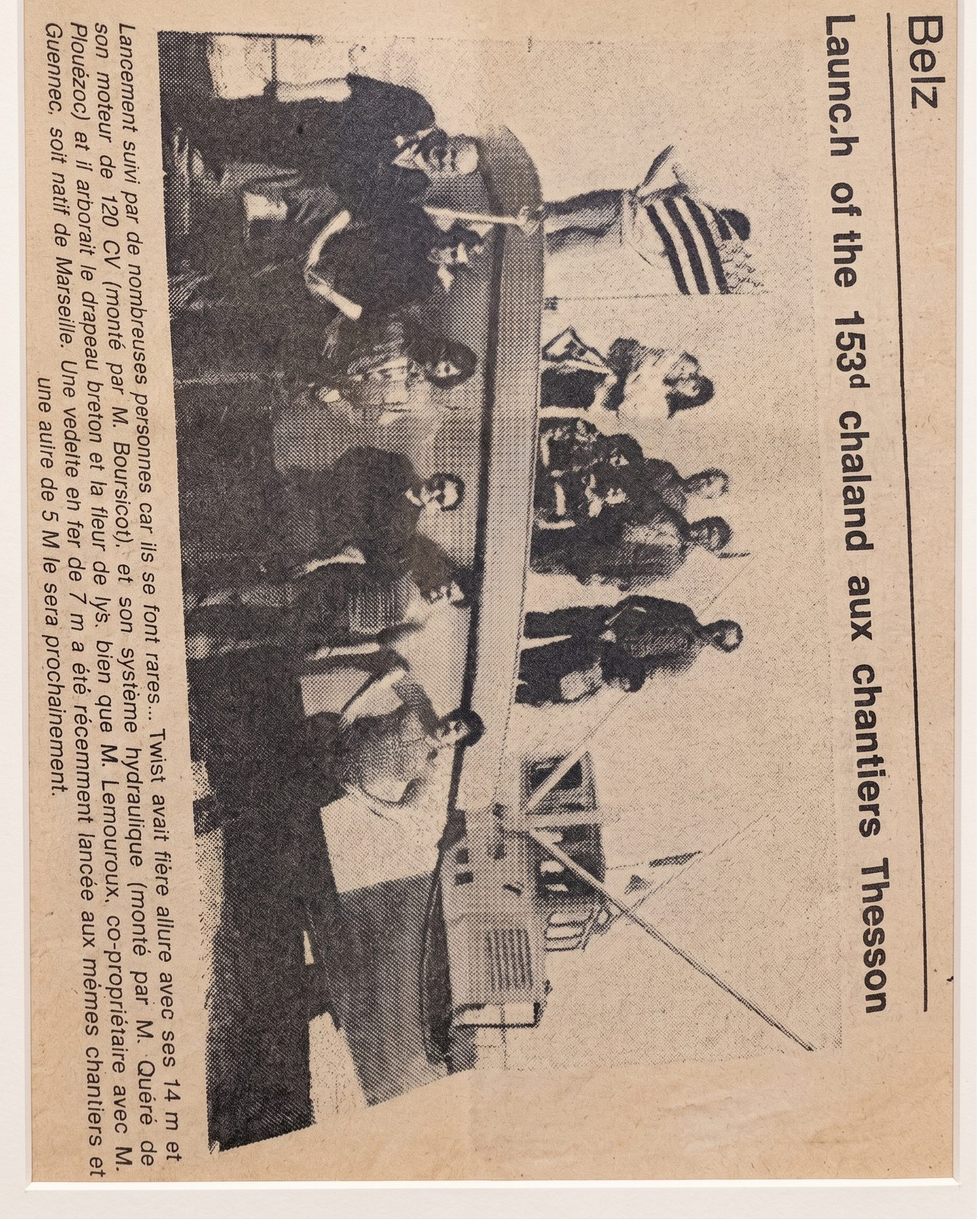
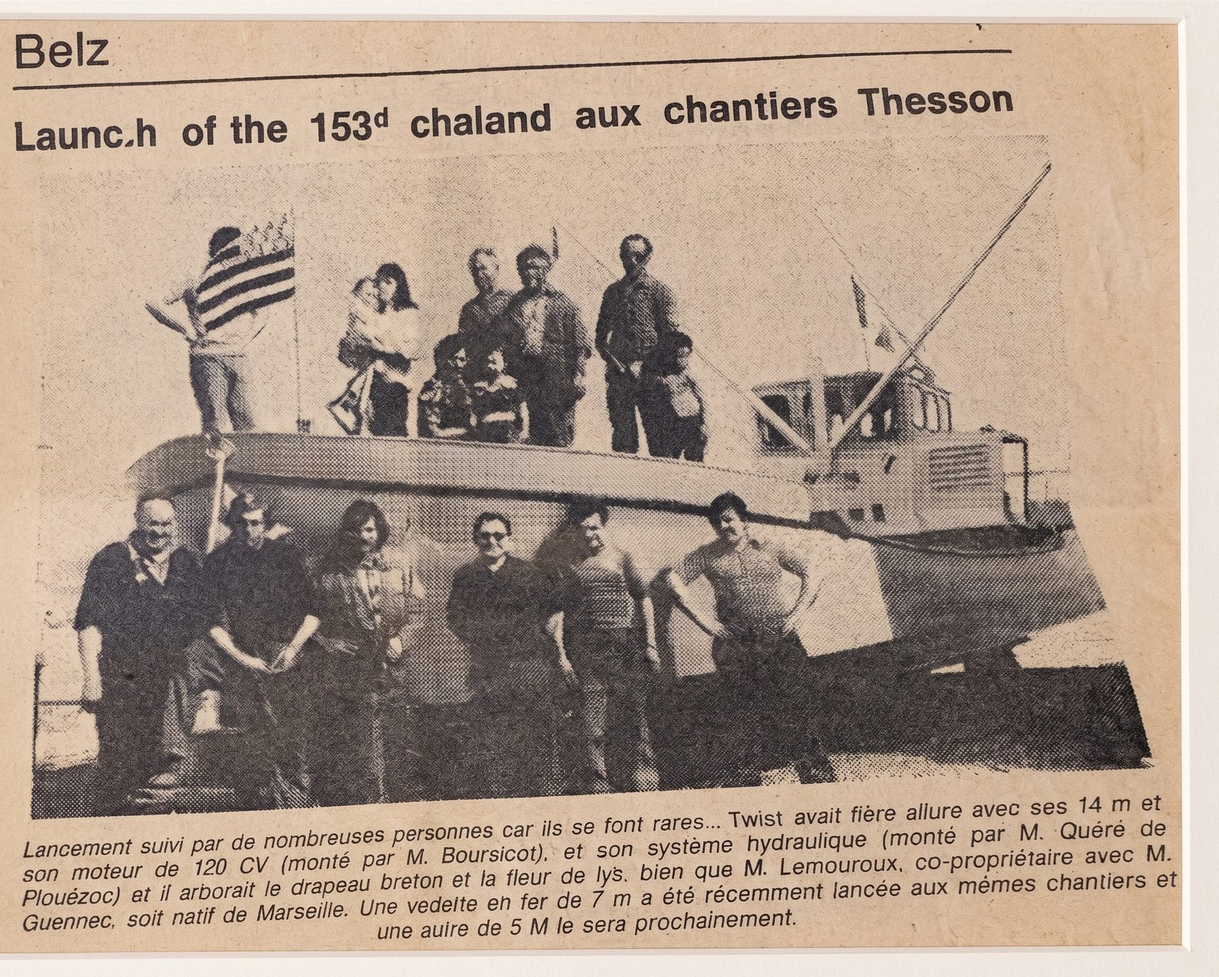
Corrige l'orientation de la coupure de presse, ajoute la photo Myriane
- archive-01-article-chaland.jpg pivote a la source (donc vignette et
  lightbox corrigees automatiquement, meme fichier pour les deux).
  Rotation reellement appliquee : 90 anti-horaire, verifiee visuellement
  jusqu'a obtenir un texte parfaitement horizontal et lisible (une
  rotation horaire produisait une image a l'envers).
- Nouvelle carte "Myriane au tapis, preparation artisanale" ajoutee
  juste apres la coupure de presse, photo trouvee dans
  photo/archives/myriane au tapis.png (ajoutee au dossier source
  depuis le dernier import).

diff --git a/histoire.html b/histoire.html
@@ -15,7 +15,7 @@
 <link rel="preconnect" href="https://fonts.googleapis.com">
 <link rel="preconnect" href="https://fonts.gstatic.com" crossorigin>
 <link href="https://fonts.googleapis.com/css2?family=Playfair+Display:wght@500;600;700&family=Dancing+Script:wght@600;700&family=Inter:wght@400;500;600;700&display=swap" rel="stylesheet">
-<link rel="stylesheet" href="css/style.css?v=115">
+<link rel="stylesheet" href="css/style.css?v=116">
 <script>document.documentElement.classList.add("js");</script>
 </head>
 <body>
@@ -260,6 +260,10 @@
           <figcaption>Coupure de presse — le lancement du chaland « Twist », aux chantiers Thesson (Août 1964)</figcaption>
         </figure>
         <figure class="archive-card" role="button" tabindex="0">
+          <img src="img/archives/archive-16-myriane-tapis.jpg" alt="Myriane au tapis de tri, préparation artisanale des coquillages" loading="lazy">
+          <figcaption>Myriane au tapis, préparation artisanale</figcaption>
+        </figure>
+        <figure class="archive-card" role="button" tabindex="0">
           <img src="img/archives/archive-02-twist-en-mer.jpg" alt="Le chaland Twist Auray en mer, pavillon breton au vent" loading="lazy">
           <figcaption>Le « Twist Auray » en mer, pavillon breton au vent</figcaption>
         </figure>
@@ -384,6 +388,6 @@
   <svg viewBox="0 0 24 24" fill="none" stroke="currentColor" stroke-width="2.2" stroke-linecap="round" stroke-linejoin="round"><path d="M12 19V5"/><path d="m5 12 7-7 7 7"/></svg>
 </button>
 
-<script src="js/main.js?v=115"></script>
+<script src="js/main.js?v=116"></script>
 </body>
 </html>

diff --git a/index.html b/index.html
@@ -16,7 +16,7 @@
 <link rel="preconnect" href="https://fonts.gstatic.com" crossorigin>
 <link href="https://fonts.googleapis.com/css2?family=Playfair+Display:wght@500;600;700&family=Dancing+Script:wght@600;700&family=Inter:wght@400;500;600;700&display=swap" rel="stylesheet">
 <link rel="stylesheet" href="https://unpkg.com/leaflet@1.9.4/dist/leaflet.css" integrity="sha256-p4NxAoJBhIIN+hmNHrzRCf9tD/miZyoHS5obTRR9BMY=" crossorigin="">
-<link rel="stylesheet" href="css/style.css?v=115">
+<link rel="stylesheet" href="css/style.css?v=116">
 <script>document.documentElement.classList.add("js");</script>
 </head>
 <body>
@@ -513,6 +513,6 @@
 </button>
 
 <script src="https://unpkg.com/leaflet@1.9.4/dist/leaflet.js" integrity="sha256-20nQCchB9co0qIjJZRGuk2/Z9VM+kNiyxNV1lvTlZBo=" crossorigin=""></script>
-<script src="js/main.js?v=115"></script>
+<script src="js/main.js?v=116"></script>
 </body>
 </html>

diff --git a/points-de-vente.html b/points-de-vente.html
@@ -16,7 +16,7 @@
 <link rel="preconnect" href="https://fonts.gstatic.com" crossorigin>
 <link href="https://fonts.googleapis.com/css2?family=Playfair+Display:wght@500;600;700&family=Dancing+Script:wght@600;700&family=Inter:wght@400;500;600;700&display=swap" rel="stylesheet">
 <link rel="stylesheet" href="https://unpkg.com/leaflet@1.9.4/dist/leaflet.css" integrity="sha256-p4NxAoJBhIIN+hmNHrzRCf9tD/miZyoHS5obTRR9BMY=" crossorigin="">
-<link rel="stylesheet" href="css/style.css?v=115">
+<link rel="stylesheet" href="css/style.css?v=116">
 <script>document.documentElement.classList.add("js");</script>
 </head>
 <body>
@@ -325,6 +325,6 @@
 </button>
 
 <script src="https://unpkg.com/leaflet@1.9.4/dist/leaflet.js" integrity="sha256-20nQCchB9co0qIjJZRGuk2/Z9VM+kNiyxNV1lvTlZBo=" crossorigin=""></script>
-<script src="js/main.js?v=115"></script>
+<script src="js/main.js?v=116"></script>
 </body>
 </html>

diff --git a/mentions-legales.html b/mentions-legales.html
@@ -14,7 +14,7 @@
 <link rel="preconnect" href="https://fonts.googleapis.com">
 <link rel="preconnect" href="https://fonts.gstatic.com" crossorigin>
 <link href="https://fonts.googleapis.com/css2?family=Playfair+Display:wght@500;600;700&family=Dancing+Script:wght@600;700&family=Inter:wght@400;500;600;700&display=swap" rel="stylesheet">
-<link rel="stylesheet" href="css/style.css?v=115">
+<link rel="stylesheet" href="css/style.css?v=116">
 <script>document.documentElement.classList.add("js");</script>
 </head>
 <body>
@@ -174,6 +174,6 @@
   <svg viewBox="0 0 24 24" fill="none" stroke="currentColor" stroke-width="2.2" stroke-linecap="round" stroke-linejoin="round"><path d="M12 19V5"/><path d="m5 12 7-7 7 7"/></svg>
 </button>
 
-<script src="js/main.js?v=115"></script>
+<script src="js/main.js?v=116"></script>
 </body>
 </html>

diff --git a/nos-produits.html b/nos-produits.html
@@ -15,7 +15,7 @@
 <link rel="preconnect" href="https://fonts.googleapis.com">
 <link rel="preconnect" href="https://fonts.gstatic.com" crossorigin>
 <link href="https://fonts.googleapis.com/css2?family=Playfair+Display:wght@500;600;700&family=Dancing+Script:wght@600;700&family=Inter:wght@400;500;600;700&display=swap" rel="stylesheet">
-<link rel="stylesheet" href="css/style.css?v=115">
+<link rel="stylesheet" href="css/style.css?v=116">
 <script>document.documentElement.classList.add("js");</script>
 </head>
 <body>
@@ -328,6 +328,6 @@
   <svg viewBox="0 0 24 24" fill="none" stroke="currentColor" stroke-width="2.2" stroke-linecap="round" stroke-linejoin="round"><path d="M12 19V5"/><path d="m5 12 7-7 7 7"/></svg>
 </button>
 
-<script src="js/main.js?v=115"></script>
+<script src="js/main.js?v=116"></script>
 </body>
 </html>

diff --git a/presse.html b/presse.html
@@ -15,7 +15,7 @@
 <link rel="preconnect" href="https://fonts.googleapis.com">
 <link rel="preconnect" href="https://fonts.gstatic.com" crossorigin>
 <link href="https://fonts.googleapis.com/css2?family=Playfair+Display:wght@500;600;700&family=Dancing+Script:wght@600;700&family=Inter:wght@400;500;600;700&display=swap" rel="stylesheet">
-<link rel="stylesheet" href="css/style.css?v=115">
+<link rel="stylesheet" href="css/style.css?v=116">
 <script>document.documentElement.classList.add("js");</script>
 </head>
 <body>
@@ -276,6 +276,6 @@
   <svg viewBox="0 0 24 24" fill="none" stroke="currentColor" stroke-width="2.2" stroke-linecap="round" stroke-linejoin="round"><path d="M12 19V5"/><path d="m5 12 7-7 7 7"/></svg>
 </button>
 
-<script src="js/main.js?v=115"></script>
+<script src="js/main.js?v=116"></script>
 </body>
 </html>

diff --git a/merci.html b/merci.html
@@ -9,7 +9,7 @@
 <link rel="preconnect" href="https://fonts.googleapis.com">
 <link rel="preconnect" href="https://fonts.gstatic.com" crossorigin>
 <link href="https://fonts.googleapis.com/css2?family=Playfair+Display:wght@500;600;700&family=Dancing+Script:wght@600;700&family=Inter:wght@400;500;600;700&display=swap" rel="stylesheet">
-<link rel="stylesheet" href="css/style.css?v=115">
+<link rel="stylesheet" href="css/style.css?v=116">
 </head>
 <body style="background:var(--navy-900);">
 <div style="min-height:100svh; display:flex; align-items:center; justify-content:center; padding:var(--space-lg);">
